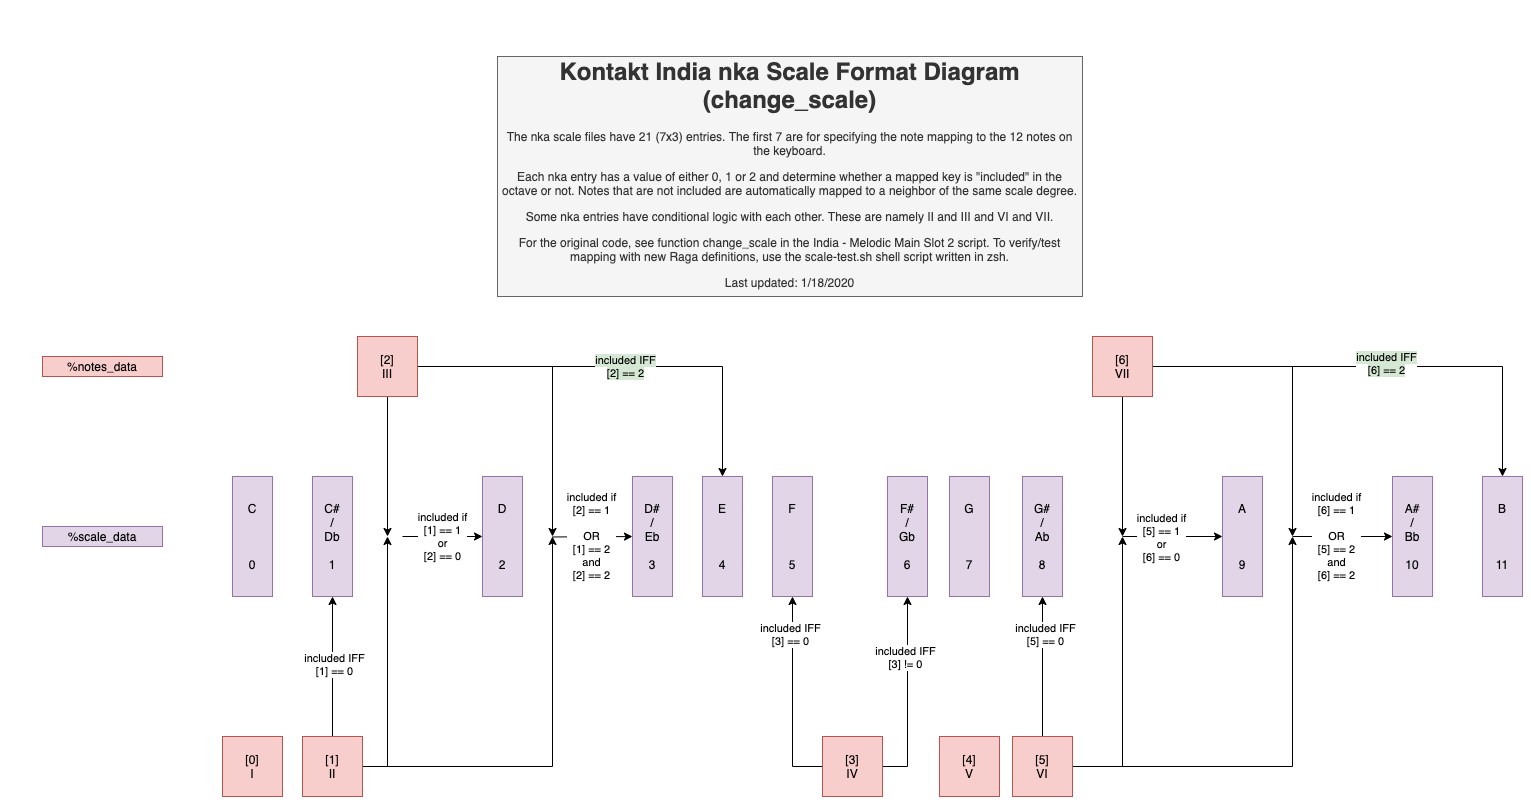
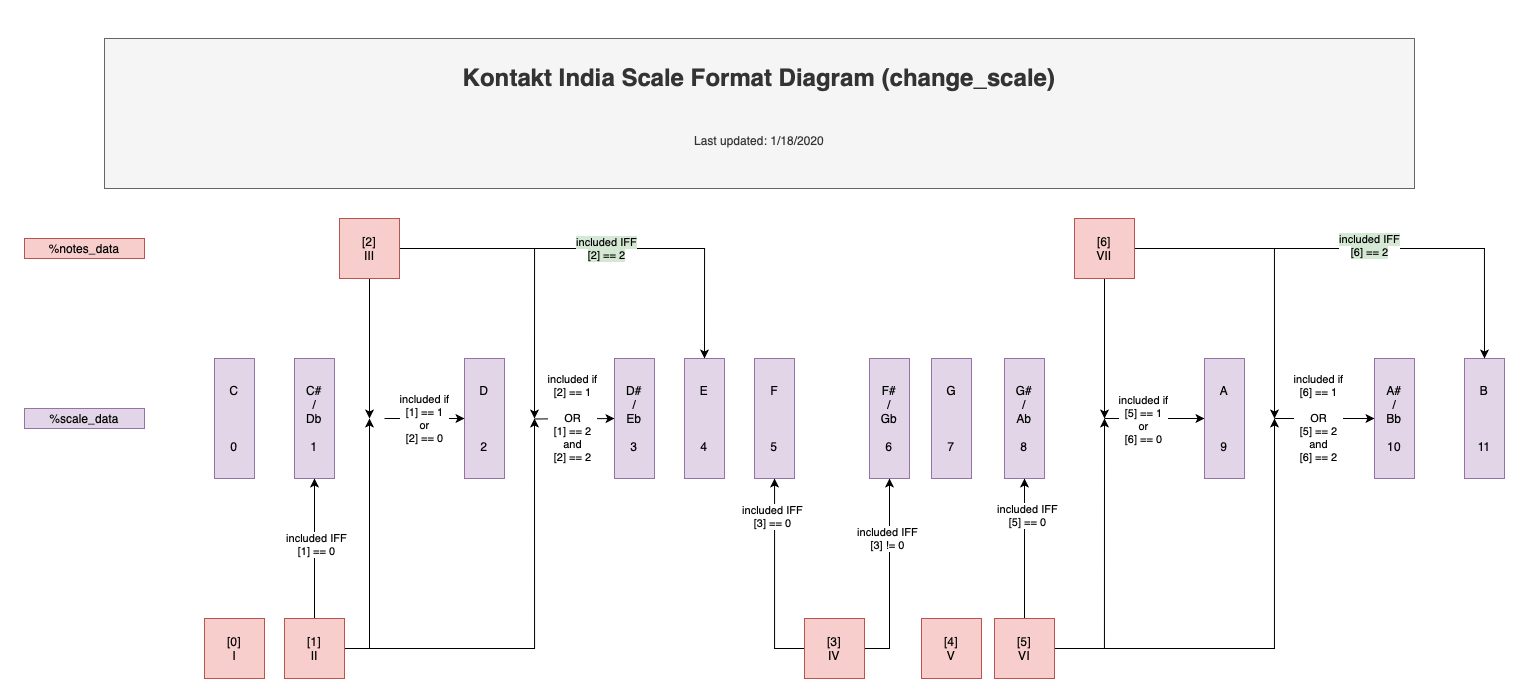
new get_tuning_tanpura function
- uses tuning of nka scale file to adjust tanpura note tuning
- documentation and nka format diagram
- uses new event parameter to send tuning value to Articulation script (Slot 4)
- supports realtime adjustments via GUI
- note function fem_tick_received in Slot 2 appears unused

diff --git a/README.md b/README.md
@@ -1,2 +1,38 @@
 # ni-kontakt-india-shrutis
-Modifications to the Native Instruments "Discovery Series: India" instruments to support 22 Shruti's.
+Modifications to the Native Instruments "Discovery Series: India" instruments to support 22 Shrutis.
+
+<https://www.native-instruments.com/en/products/komplete/world/india/>
+
+# How to Use
+
+Manually copy/paste the scripts in the respective slot. Currently only Slots 2 and 4 have modifications.
+
+Note: requires paid Kontakt version to access instrument settings.
+
+# Features
+
+1. Dhaivat Tanpura Tuning (6-12-1-1)
+2. Customize Tanpura tuning via Scale Tuning
+
+# Schematics
+
+## Scale File Format
+
+![Kontakt India nka Scale Format Diagram](/schematics/Kontakt%20India%20nka%20Scale%20Format%20Diagram.png)
+
+Each `.nka` scale file has 21 (7x3) entries. The first 7 specify the scale mapping to the 12 notes on the keyboard.
+
+The `.nka` entries determine which scale degrees are "included" in the octave. The values are either 0, 1, or 2. Those that are not included are automatically mapped to neighbors.
+
+Some entries have conditional logic with each other. These are namely II and III; and VI and VII.
+
+To verify/test mapping with new Raga definitions, use the `scale-test.sh` shell script written in zsh. 
+
+For the original code, see function `change_scale` in the `India MEL Slot 2.txt` script.
+
+
+# Helpful Resources
+
+1. Kontakt 6 Reference Manual <https://www.native-instruments.com/fileadmin/ni_media/downloads/manuals/kontakt/KSP_Reference_Manual_26_08_2020_ENGLISH.pdf>
+2. Sublime KSP Syntax Plugin <https://nilsliberg.se/ksp/>
+3. Kontakt Scripting Tutorial <https://nilsliberg.se/ksp/scripts/tutorial/>
